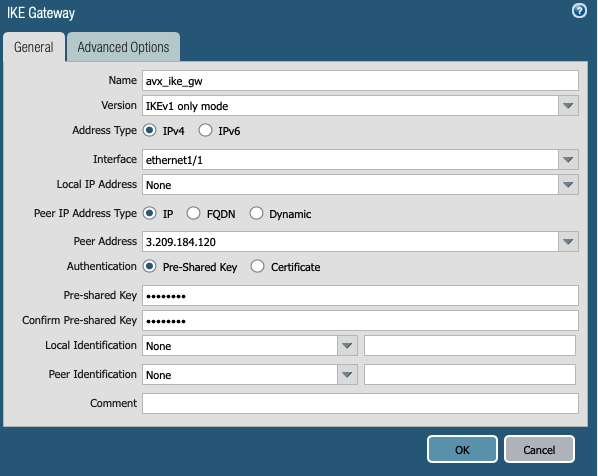
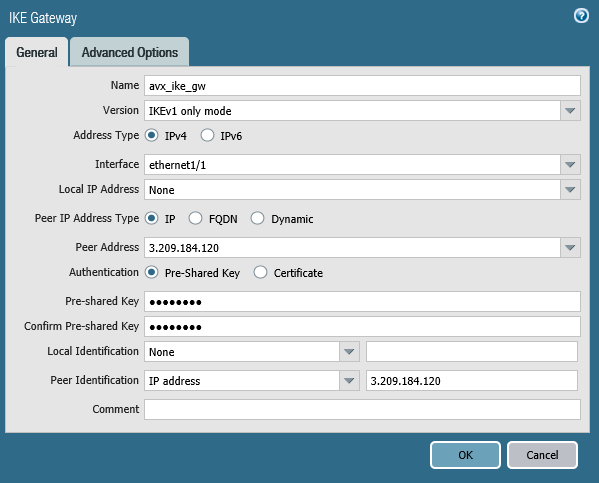
Qing: 1st commit

Changed region(s): [[0.0, 0.0, 1.0, 1.0], [0.6923, 0.9118, 0.9632, 0.9706], [0.1505, 0.8235, 0.2408, 0.8824]]

diff --git a/HowTos/Transit_ExternalDevice_PaloAlto.rst b/HowTos/Transit_ExternalDevice_PaloAlto.rst
@@ -37,6 +37,10 @@ Configuration WorkFlow:
 
    |image2|
 
+      .. note::
+
+         If using private IP as remote gateway IP, please make sure to check "Over DirectConnect".
+		 
 3. Download the configuration by going to Site2Cloud -> Click on the Connection.
    Select generic and Download Configuration and configure on the router accordingly.
 
@@ -87,9 +91,12 @@ Configuration WorkFlow:
         Interface                         Palo Alto Networks WAN port
         Peer IP Address                   Aviatrix Gateway public IP
         Pre-shared Key                    Key from site2cloud configuration downloaded at Step 3
-        Peer Identification               IP Address & Aviatrix Gateway private IP
+        Peer Identification               IP Address & Aviatrix Gateway public IP
       ===============================     =========================================
+      .. note::
 
+         If using remote private IP on Step 2, Peer IP Address should be the remote private IP while Peer Identification should be remote public IP.
+		 
       |image9|
 
       ===============================     =========================================
